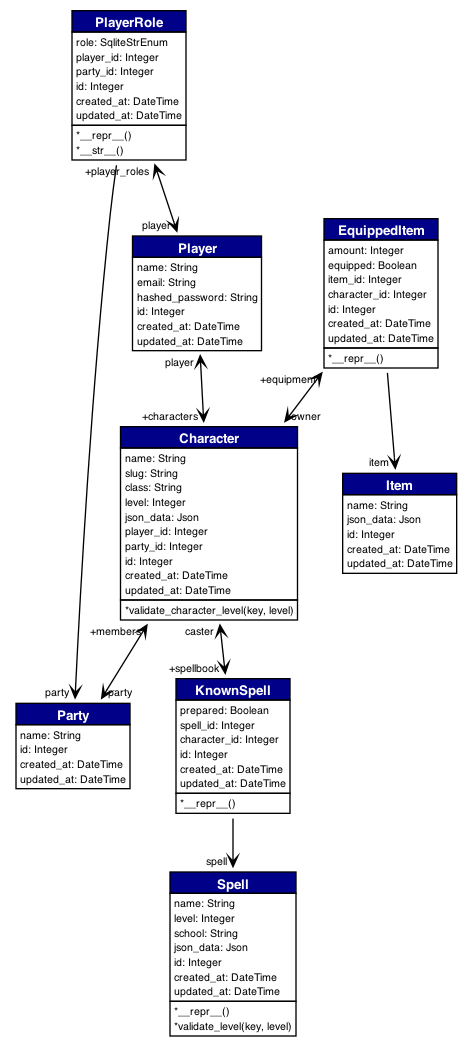
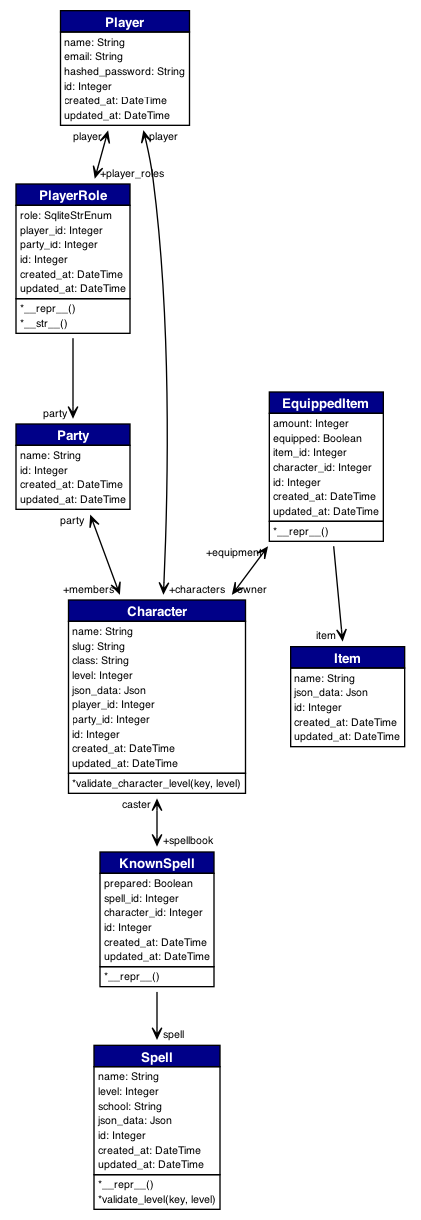
Circumvent the wforms name collision issue by transparently renaming the data columns

Changed region(s): [[0.0309, 0.0, 0.9881, 1.0]]

diff --git a/dnd5esheets/models.py b/dnd5esheets/models.py
@@ -15,6 +15,7 @@ from sqlalchemy import (
     UniqueConstraint,
     types,
 )
+from sqlalchemy.ext.hybrid import hybrid_property
 from sqlalchemy.orm import (
     DeclarativeBase,
     Mapped,
@@ -153,6 +154,20 @@ class NameReprMixin:
         return self.name
 
 
+class DataPropertyMixin:
+    """Provide the .data property as an accessor to the data_ mapped column"""
+
+    # We rely on hybrid properties (https://docs.sqlalchemy.org/en/20/orm/extensions/hybrid.html)
+    # to perform an field name indirection, whether on the instance or the model level
+    @hybrid_property
+    def data(self):
+        return self.data_
+
+    @data.inplace.setter
+    def set_data(self, value):
+        self.data_ = value
+
+
 class Player(NameReprMixin, BaseModel):
     name: Mapped[str] = mapped_column(String(255), nullable=False)
     email: Mapped[str] = mapped_column(
@@ -182,9 +197,9 @@ class Party(NameReprMixin, BaseModel):
     )
 
 
-class Item(NameReprMixin, BaseModel):
+class Item(NameReprMixin, DataPropertyMixin, BaseModel):
     name: Mapped[str] = mapped_column(String(255), unique=True, index=True)
-    data: Mapped[str] = mapped_column(Json, name="json_data")
+    data_: Mapped[str] = mapped_column(Json, name="json_data")
 
     @property
     def five_e_tools_url(self):
@@ -218,12 +233,12 @@ class KnownSpell(BaseModel):
         return f"<{self.__class__.__name__}: {str(self.spell)}>"
 
 
-class Character(NameReprMixin, BaseModel):
+class Character(NameReprMixin, DataPropertyMixin, BaseModel):
     name: Mapped[str] = mapped_column(String(255))
     slug: Mapped[str] = mapped_column(String(255))
     class_: Mapped[str] = mapped_column(String(80), name="class", nullable=True)
     level: Mapped[int] = mapped_column(Integer, nullable=True)
-    data: Mapped[str] = mapped_column(Json, name="json_data", nullable=True)
+    data_: Mapped[str] = mapped_column(Json, name="json_data", nullable=True)
     player_id: Mapped[int] = mapped_column(ForeignKey("player.id"))
     player: Mapped[Player] = relationship(
         back_populates="characters",
@@ -261,11 +276,11 @@ class Character(NameReprMixin, BaseModel):
         return level
 
 
-class Spell(NameReprMixin, BaseModel):
+class Spell(NameReprMixin, DataPropertyMixin, BaseModel):
     name: Mapped[str] = mapped_column(String(255), unique=True, index=True)
     level: Mapped[int] = mapped_column(Integer, nullable=False)
     school: Mapped[str] = mapped_column(String(30), nullable=False)
-    data: Mapped[str] = mapped_column(Json, name="json_data")
+    data_: Mapped[str] = mapped_column(Json, name="json_data")
 
     def __repr__(self):
         return f"<{self.__class__.__name__}: {self.name} [{self.level}]>"

diff --git a/dnd5esheets/admin/admin.py b/dnd5esheets/admin/admin.py
@@ -62,20 +62,8 @@ def base_excluded_columns(model: Type[BaseModel]) -> list:
 
 
 def base_form_excluded_columns(model: Type[BaseModel]) -> list:
-    """Exclude hidden fields from form, as well as any field named 'data'.
-
-    Note: this is due to a bug in sqladmin, through wich a field named 'data' overrides
-    the BaseForm.data atttribute.
-    See https://github.com/aminalaee/sqladmin/issues/656.
-
-    """
-    excluded_columns = base_excluded_columns(model)
-    # See https://github.com/aminalaee/sqladmin/issues/656
-    # having a model column named 'data' collides with
-    # https://github.com/wtforms/wtforms/blob/master/src/wtforms/form.py#L150-L152
-    if getattr(model, "data", None):
-        excluded_columns.append(model.data)  # type: ignore
-    return excluded_columns
+    """Exclude hidden fields from form"""
+    return base_excluded_columns(model)
 
 
 class CustomModelView(ModelView):
@@ -118,7 +106,7 @@ class CharacterAdmin(ModelView, model=Character):
     ]
     column_details_exclude_list = base_excluded_columns(Character)
     form_excluded_columns = base_form_excluded_columns(Character)
-    column_labels = {Character.class_: "class"}
+    column_labels = {Character.class_: "class", Character.data_: "data"}
     column_searchable_list = [Character.name, Character.class_]
     column_type_formatters = custom_base_formatters
     details_template = "details_custom.html"
@@ -154,7 +142,7 @@ class ItemAdmin(CustomModelView, model=Item):
     _column_formatters = {
         "five_e_tools_url": lambda model, _: link(model.five_e_tools_url),
     }
-    column_labels = {"five_e_tools_url": "5e.tools URL"}
+    column_labels = {"five_e_tools_url": "5e.tools URL", Item.data_: "data"}
     page_size = 30
     column_searchable_list = [Item.name]
     column_list = [Item.id, Item.name]
@@ -192,7 +180,7 @@ class SpellAdmin(CustomModelView, model=Spell):
         Spell.school: lambda model, _: model.school.capitalize(),  # type: ignore
         "five_e_tools_url": lambda model, _: link(model.five_e_tools_url),
     }
-    column_labels = {"five_e_tools_url": "5e.tools URL"}
+    column_labels = {"five_e_tools_url": "5e.tools URL", Spell.data_: "data"}
 
     page_size = 30
     column_searchable_list = [Spell.name, Spell.level]
